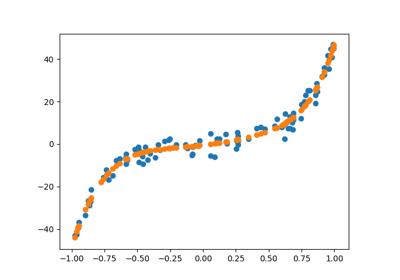
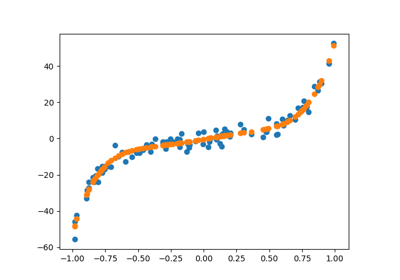
Pushing the docs for revision for branch: master, commit c9a347a8f00e73eee08663c75bfe9ff4e1fb9e16

diff --git a/searchindex.js b/searchindex.js
@@ -1,1 +1,1 @@
-Search.setIndex({docnames:["api","auto_examples/index","auto_examples/plot_fifth_example_Demultiplexer_Multiplexer","auto_examples/plot_first_example_two_nodes_in_linear_sequence","auto_examples/plot_fourth_example_combination_of_classifiers","auto_examples/plot_second_example_added_gridsearchcv","auto_examples/plot_third_example_varying_sample_weights","index","pipegraph"],envversion:53,filenames:["api.rst","auto_examples/index.rst","auto_examples/plot_fifth_example_Demultiplexer_Multiplexer.rst","auto_examples/plot_first_example_two_nodes_in_linear_sequence.rst","auto_examples/plot_fourth_example_combination_of_classifiers.rst","auto_examples/plot_second_example_added_gridsearchcv.rst","auto_examples/plot_third_example_varying_sample_weights.rst","index.rst","pipegraph.rst"],objects:{"":{pipegraph:[8,0,0,"-"]},"pipegraph.PipeGraphClassifier":{decision_function:[8,2,1,""],fit:[8,2,1,""],fit_predict:[8,2,1,""],get_params:[8,2,1,""],predict:[8,2,1,""],predict_log_proba:[8,2,1,""],predict_proba:[8,2,1,""],score:[8,2,1,""],set_params:[8,2,1,""]},"pipegraph.PipeGraphRegressor":{decision_function:[8,2,1,""],fit:[8,2,1,""],fit_predict:[8,2,1,""],get_params:[8,2,1,""],predict:[8,2,1,""],predict_log_proba:[8,2,1,""],predict_proba:[8,2,1,""],score:[8,2,1,""],set_params:[8,2,1,""]},pipegraph:{PipeGraphClassifier:[8,1,1,""],PipeGraphRegressor:[8,1,1,""]}},objnames:{"0":["py","module","Python module"],"1":["py","class","Python class"],"2":["py","method","Python method"]},objtypes:{"0":"py:module","1":"py:class","2":"py:method"},terms:{"boolean":8,"case":[3,5,6,8],"class":[2,4,5,6,8],"default":[4,8],"final":[7,8],"function":7,"import":[2,3,4,5,6],"return":8,"true":[3,4,5,6,8],"while":[3,6,7,8],For:3,The:[3,4,6,8],Then:[3,6],Use:[2,3],about:5,accept:3,access:7,accordingli:[2,6],across:5,action:8,addition:4,advantag:4,after:8,aim:8,all:[1,6,7,8],allow:[6,7],along:7,alternative_connect:8,amongst:3,ani:8,annot:4,api:7,appear:6,append:4,appli:[3,8],argument:8,arrai:[2,6,8],artifici:[3,5],assocci:[3,8],attribut:8,augment:6,auto_examples_jupyt:1,auto_examples_python:1,axi:2,base:8,basic:3,becaus:[4,6],best:[3,5,6,7],best_estimator_:[4,5,6],bind:7,call:7,can:[3,6,7,8],capabl:7,cbar:4,chain:8,charg:2,circumv:6,classif:4,classifi:[1,2],cluster:2,code:[1,2,3,4,5,6],coef:5,coef_:5,coeffici:5,column:6,columnselector:6,combin:[1,2,7],compat:8,complet:7,complex:[3,4,6,7],complic:5,concat:[2,4],concaten:[4,6],concept:7,configur:3,confus:4,confusion_matrix:4,connect:[2,3,4,5,6,8],consid:[3,8],constrain:6,contain:6,could:3,creat:[3,5,6],cross:6,current:[3,6,8],custom:[2,4,6],custom_pow:6,custom_power__pow:6,custompow:6,data:[2,3,4,5,6,7,8],datafram:6,dataset:4,decision_funct:8,deep:8,defin:[3,5,6,8],degre:5,demonstr:1,demultiplex:2,demultiplexor:1,demux:2,describ:[3,5],descript:6,desir:[3,8],detail:5,diagram:[2,3,4,5,6],dict:[6,8],dictionari:[3,5,6,8],differ:[2,6],displai:[4,6],divid:6,document:[7,8],download:[1,2,3,4,5,6],each:[2,8],eas:7,effect:5,elabor:[3,6,7],enabl:8,entri:[3,8],equival:[5,8],estim:[4,5,6,7,8],evalu:6,exampl:7,expect:6,experi:6,explor:[5,6],express:[3,7,8],extend:7,extens:8,extern:[3,8],fals:[4,5,6],faster:3,featur:[4,6],fed:3,few:[5,6,7],fifth:1,figur:[2,3,4,5,6],first:[1,5,6,8],firstli:[3,4,5],fit:[2,3,4,5,6,7,8],fit_param:[6,8],fit_predict:[3,8],fmt:4,follow:[3,5,6,8],format:[5,6],fourth:1,from:[2,3,4,5,6,7,8],fulfil:8,galleri:[1,2,3,4,5,6],gaussian_mixtur:2,gaussian_nb:4,gaussianmixtur:2,gaussiannb:4,gener:[2,3,4,5,6,7],get:8,get_param:[4,5,6,8],going:[3,8],graph:[6,7,8],grid:3,grid_search_classifi:4,grid_search_regressor:[5,6],gridsearchcv:[1,2,4,7,8],handbook:4,handl:7,has:8,have:[6,7],heatmap:4,heavili:8,hold:[3,8],how:[5,7],hyperparamet:[5,7],illustr:[3,6],imagin:[2,6,7],implement:[6,8],increas:[3,6],index:[3,7],indic:6,inform:[3,5,6,8],inject:[1,4],input:[2,3,4,6,8],instanc:3,instanti:3,instead:6,intercept:5,interfac:8,intermedi:7,introductori:1,invok:[3,8],ipynb:[2,3,4,5,6],iri:4,iter:8,its:[4,8],itself:7,jake:4,jupyt:[1,2,3,4,5,6],just:5,kei:[3,8],keyword:8,kwarg:8,label:[2,3,4,8],last:8,layout:[2,7],learn:[4,7,8],legend:3,let:[3,6,7],level:[3,8],librari:[3,5],like:8,limit:6,linear:[1,5,7],linear_model:[2,3,4,5,6],linear_model__fit_intercept:[5,6],linearregress:[2,3,4,5,6],list:[3,8],lm_0:2,lm_1:2,lm_2:2,load_iri:4,loc:[3,6],make:6,manag:[4,7],manner:5,map:[6,8],mat:4,matplotlib:[2,3,4,5,6],matrix:4,method:[3,4,7,8],metric:4,minmaxscal:[2,3,4,5,6],minut:[2,3,4,5,6],mixtur:2,mlp:4,mlp__hidden_layer_s:4,mlp__max_it:4,mlpclassifi:4,model:[1,2,3,5,7,8],model_select:[2,4,5,6],modul:[7,8],more:[3,5,6],multiplex:2,multiplexor:1,must:[3,8],mux:2,n_class:8,n_compon:2,n_sampl:8,naive_bay:4,name:[3,8],necessari:[3,5],need:[2,3,6],nest:[3,8],network:4,neural:4,neural_network:4,next:[5,6],non:[5,6],none:[2,8],notebook:[1,2,3,4,5,6],now:5,number:[5,6],numpi:[2,3,4,5,6],object:[3,4,5,6,7,8],obtain:6,onc:3,one:[2,8],onli:8,oper:[5,6],option:8,order:[3,6,8],origin:[3,6],other:[3,8],otherwis:8,out:[5,6],output:[3,4,8],page:7,panda:[2,4,6],param:8,param_grid:[4,5,6],paramet:[5,6,8],particular:6,pass:[3,8],perfectli:3,perform:[5,6],pgraph:[2,3,4,5,6],pipegraph:[0,2,3,4,5,6],pipegraphclasifi:8,pipegraphclassifi:[4,8],pipegraphregressor:[3,5,6,8],pipegrpaph:8,pipelin:[3,5,6,7,8],pleas:[3,6],plot:[3,4],plot_fifth_example_demultiplexer_multiplex:2,plot_first_example_two_nodes_in_linear_sequ:3,plot_fourth_example_combination_of_classifi:4,plot_second_example_added_gridsearchcv:5,plot_third_example_varying_sample_weight:6,plt:[2,3,4,5,6],polynomi:5,polynomial_featur:[5,6],polynomial_features__degre:[5,6],polynomialfeatur:[4,5,6],posit:[3,8],possibl:[5,6,8],power:6,predict:[2,3,4,5,6,7,8],predict_log_proba:8,predict_proba:8,prefix:8,preprocess:[2,3,4,5,6],preprocessor:[2,4],previous:[3,6,8],print:[5,6],proce:5,provid:[3,5,6,8],purpos:8,pyplot:[2,3,4,5,6],python:[1,2,3,4,5,6],rand:[2,3,5],randn:[2,3,5],random:[2,3,5],rang:[5,6],refer:[3,6],refit:[4,5,6],regress:[1,3],regressor:8,repres:[3,8],requir:8,reshap:6,result:[3,4,6],retrict:6,run:[2,3,4,5,6],s__p:8,same:[3,6,8],sample_weight:[1,8],scale:4,scaler:[2,3,4,5,6],scatter:[2,3,5,6],scenario:[5,6],scienc:4,scikit:[4,7,8],score:[4,8],script:[2,3,4,5,6],seaborn:4,search:7,second:[1,2,3,4,6],secondli:[3,5],see:7,select:2,selector:6,self:8,separ:2,sequenc:[6,7],seri:2,set:[4,8],set_param:8,shape:[6,8],show:[2,3,4,5,6],shown:5,similar:[5,8],simpl:[1,5,6,7],singl:[2,7],situat:7,sklearn:[2,3,4,5,6],slice:6,sns:4,some:[3,5],sourc:[1,2,3,4,5,6,8],specifi:[5,6],sphinx:[1,2,3,4,5,6],split:[2,6],squar:4,standard:[3,6],start:3,step:[2,3,4,5,6,7,8],string:[3,8],structur:7,style:4,successfulli:[4,6],svc:4,svc__c:4,svm:4,syntax:6,take:4,taken:4,target:[4,8],than:6,thei:[3,8],them:6,themselv:[3,8],thi:[3,4,5,6,7,8],third:1,those:[3,6,7,8],through:7,time:[2,3,4,5,6],titl:3,to_fram:2,tool:7,top:[3,8],topolog:8,total:[2,3,4,5,6],train:8,transform:[3,4,5,6,7],treat:6,tune:7,tupl:[3,8],two:6,typic:6,understand:[3,7],unit:7,use:[4,5,6,7],used:[6,8],useful:7,user:[3,7,8],using:[2,3,5,6,7,8],valid:[6,8],valu:[3,8],vanderpla:4,vari:[1,5],variabl:[3,6,8],vector:[1,2],veri:7,wai:6,want:[4,5],well:4,were:3,when:[2,3],where:[3,8],whether:5,which:[6,8],whose:8,wise:6,work:7,workflow:[1,5,6,7],written:[3,8],x_0:2,x_1:2,x_2:2,x_first:2,x_second:2,x_third:2,xlabel:[3,4],y_0:2,y_1:2,y_2:2,y_first:2,y_pred:[2,3,4,5,6,8],y_proba:8,y_score:8,y_second:2,y_third:2,yet:5,ylabel:[3,4],zip:1},titles:["API Documentation","General examples","Fifth Example: Demultiplexor - multiplexor","First example: A simple linear workflow","Fourth Example: Combination of classifiers","Second example: <code class=\"docutils literal notranslate\"><span class=\"pre\">GridSearchCV</span></code> demonstration","Third Example: Injecting varying <code class=\"docutils literal notranslate\"><span class=\"pre\">sample_weight</span></code> vectors to a linear regression model for GridSearchCV","Welcome to PipeGraph!","PipeGraph"],titleterms:{api:0,classifi:4,combin:4,demonstr:5,demultiplexor:2,document:0,exampl:[1,2,3,4,5,6],fifth:2,first:3,fourth:4,gener:1,gridsearchcv:[5,6],indic:7,inject:6,introduct:7,linear:[3,6],model:6,multiplexor:2,pipegraph:[7,8],regress:6,sample_weight:6,second:5,simpl:3,tabl:7,third:6,vari:6,vector:6,welcom:7,workflow:3}})
+Search.setIndex({docnames:["api","auto_examples/index","auto_examples/plot_fifth_example_Demultiplexer_Multiplexer","auto_examples/plot_first_example_two_nodes_in_linear_sequence","auto_examples/plot_fourth_example_combination_of_classifiers","auto_examples/plot_second_example_added_gridsearchcv","auto_examples/plot_third_example_varying_sample_weights","index","pipegraph"],envversion:53,filenames:["api.rst","auto_examples/index.rst","auto_examples/plot_fifth_example_Demultiplexer_Multiplexer.rst","auto_examples/plot_first_example_two_nodes_in_linear_sequence.rst","auto_examples/plot_fourth_example_combination_of_classifiers.rst","auto_examples/plot_second_example_added_gridsearchcv.rst","auto_examples/plot_third_example_varying_sample_weights.rst","index.rst","pipegraph.rst"],objects:{"":{pipegraph:[8,0,0,"-"]},"pipegraph.PipeGraphClassifier":{decision_function:[8,2,1,""],fit:[8,2,1,""],fit_predict:[8,2,1,""],get_params:[8,2,1,""],predict:[8,2,1,""],predict_log_proba:[8,2,1,""],predict_proba:[8,2,1,""],score:[8,2,1,""],set_params:[8,2,1,""]},"pipegraph.PipeGraphRegressor":{decision_function:[8,2,1,""],fit:[8,2,1,""],fit_predict:[8,2,1,""],get_params:[8,2,1,""],predict:[8,2,1,""],predict_log_proba:[8,2,1,""],predict_proba:[8,2,1,""],score:[8,2,1,""],set_params:[8,2,1,""]},pipegraph:{PipeGraphClassifier:[8,1,1,""],PipeGraphRegressor:[8,1,1,""]}},objnames:{"0":["py","module","Python module"],"1":["py","class","Python class"],"2":["py","method","Python method"]},objtypes:{"0":"py:module","1":"py:class","2":"py:method"},terms:{"boolean":8,"case":[3,5,6,8],"class":[2,4,6,8],"default":[4,8],"final":[7,8],"function":7,"import":[2,3,4,5,6],"return":8,"true":[3,4,5,6,8],"while":[3,6,7,8],For:3,The:[3,4,6,8],Then:[3,6],Use:[2,3],about:5,accept:3,access:7,accordingli:[2,6],across:5,action:8,addition:4,advantag:4,after:8,aim:8,all:[1,6,7,8],allow:[6,7],along:7,alternative_connect:8,amongst:3,ani:8,annot:4,api:7,appear:6,append:4,appli:[3,8],argument:8,arrai:[2,6,8],artifici:[3,5],assocci:[3,8],attribut:8,augment:6,auto_examples_jupyt:1,auto_examples_python:1,axi:2,base:8,basic:3,becaus:[4,6],best:[3,5,6,7],best_estimator_:[4,5,6],bind:7,call:7,can:[3,6,7,8],capabl:7,cbar:4,chain:8,charg:2,circumv:6,classif:4,classifi:[1,2],cluster:2,code:[1,2,3,4,5,6],coef:5,coef_:5,coeffici:5,column:6,columnselector:6,combin:[1,2,7],compat:8,complet:7,complex:[3,4,6,7],complic:5,concat:[2,4],concaten:[4,6],concept:7,configur:3,confus:4,confusion_matrix:4,connect:[2,3,4,5,6,8],consid:[3,8],constrain:6,contain:6,could:3,creat:[3,5,6],cross:6,current:[3,6,8],custom:[2,4,6],custom_pow:6,custom_power__pow:6,custompow:6,data:[2,3,4,5,6,7,8],datafram:6,dataset:4,decision_funct:8,deep:8,defin:[3,5,6,8],degre:5,demonstr:1,demultiplex:2,demultiplexor:1,demux:2,describ:[3,5],descript:6,desir:[3,8],detail:5,diagram:[2,3,4,5,6],dict:[6,8],dictionari:[3,5,6,8],differ:[2,6],displai:[4,6],divid:6,document:[7,8],download:[1,2,3,4,5,6],each:[2,8],eas:7,effect:5,elabor:[3,6,7],enabl:8,entri:[3,8],equival:[5,8],estim:[4,5,6,7,8],evalu:6,exampl:7,expect:6,experi:6,explor:[5,6],express:[3,7,8],extend:7,extens:8,extern:[3,8],fals:[4,5,6],faster:3,featur:[4,6],fed:3,few:[5,6,7],fifth:1,figur:[2,3,4,5,6],first:[1,5,6,8],firstli:[3,4,5],fit:[2,3,4,5,6,7,8],fit_param:[6,8],fit_predict:[3,8],fmt:4,follow:[3,5,6,8],format:[5,6],fourth:1,from:[2,3,4,5,6,7,8],fulfil:8,galleri:[1,2,3,4,5,6],gaussian_mixtur:2,gaussian_nb:4,gaussianmixtur:2,gaussiannb:4,gener:[2,3,4,5,6,7],get:8,get_param:[4,5,6,8],going:[3,8],graph:[6,7,8],grid:3,grid_search_classifi:4,grid_search_regressor:[5,6],gridsearchcv:[1,2,4,7,8],handbook:4,handl:7,has:8,have:[6,7],heatmap:4,heavili:8,hold:[3,8],how:[5,7],hyperparamet:[5,7],illustr:[3,6],imagin:[2,6,7],implement:[6,8],increas:[3,6],index:[3,7],indic:6,inform:[3,5,6,8],inject:[1,4],input:[2,3,4,6,8],instanc:3,instanti:3,instead:6,intercept:5,interfac:8,intermedi:7,introductori:1,invok:[3,8],ipynb:[2,3,4,5,6],iri:4,iter:8,its:[4,8],itself:7,jake:4,jupyt:[1,2,3,4,5,6],just:5,kei:[3,8],keyword:8,kwarg:8,label:[2,3,4,8],last:8,layout:[2,7],learn:[4,7,8],legend:3,let:[3,6,7],level:[3,8],librari:[3,5],like:8,limit:6,linear:[1,5,7],linear_model:[2,3,4,5,6],linear_model__fit_intercept:[5,6],linearregress:[2,3,4,5,6],list:[3,8],lm_0:2,lm_1:2,lm_2:2,load_iri:4,loc:[3,6],make:6,manag:[4,7],manner:5,map:[6,8],mat:4,matplotlib:[2,3,4,5,6],matrix:4,method:[3,4,7,8],metric:4,minmaxscal:[2,3,4,5,6],minut:[2,3,4,5,6],mixtur:2,mlp:4,mlp__hidden_layer_s:4,mlp__max_it:4,mlpclassifi:4,model:[1,2,3,5,7,8],model_select:[2,4,5,6],modul:[7,8],more:[3,5,6],multiplex:2,multiplexor:1,must:[3,8],mux:2,n_class:8,n_compon:2,n_sampl:8,naive_bay:4,name:[3,8],necessari:[3,5],need:[2,3,6],nest:[3,8],network:4,neural:4,neural_network:4,next:[5,6],non:[5,6],none:[2,8],notebook:[1,2,3,4,5,6],now:5,number:[5,6],numpi:[2,3,4,5,6],object:[3,4,5,6,7,8],obtain:6,onc:3,one:[2,8],onli:8,oper:[5,6],option:8,order:[3,6,8],origin:[3,6],other:[3,8],otherwis:8,out:[5,6],output:[3,4,8],page:7,panda:[2,4,6],param:8,param_grid:[4,5,6],paramet:[5,6,8],particular:6,pass:[3,8],perfectli:3,perform:[5,6],pgraph:[2,3,4,5,6],pipegraph:[0,2,3,4,5,6],pipegraphclasifi:8,pipegraphclassifi:[4,8],pipegraphregressor:[3,5,6,8],pipegrpaph:8,pipelin:[3,5,6,7,8],pleas:[3,6],plot:[3,4],plot_fifth_example_demultiplexer_multiplex:2,plot_first_example_two_nodes_in_linear_sequ:3,plot_fourth_example_combination_of_classifi:4,plot_second_example_added_gridsearchcv:5,plot_third_example_varying_sample_weight:6,plt:[2,3,4,5,6],polynomi:5,polynomial_featur:[5,6],polynomial_features__degre:[5,6],polynomialfeatur:[4,5,6],posit:[3,8],possibl:[5,6,8],power:6,predict:[2,3,4,5,6,7,8],predict_log_proba:8,predict_proba:8,prefix:8,preprocess:[2,3,4,5,6],preprocessor:[2,4],previous:[3,6,8],print:[5,6],proce:5,provid:[3,5,6,8],purpos:8,pyplot:[2,3,4,5,6],python:[1,2,3,4,5,6],rand:[2,3,5],randn:[2,3,5],random:[2,3,5],rang:[5,6],refer:[3,6],refit:[4,5,6],regress:[1,3],regressor:8,repres:[3,8],requir:8,reshap:6,result:[3,4,6],retrict:6,run:[2,3,4,5,6],s__p:8,same:[3,6,8],sample_weight:[1,8],scale:4,scaler:[2,3,4,5,6],scatter:[2,3,5,6],scenario:[5,6],scienc:4,scikit:[4,7,8],score:[4,8],script:[2,3,4,5,6],seaborn:4,search:7,second:[1,2,3,4,6],secondli:[3,5],see:7,select:2,selector:6,self:8,separ:2,sequenc:[6,7],seri:2,set:[4,8],set_param:8,shape:[6,8],show:[2,3,4,5,6],shown:5,similar:[5,8],simpl:[1,5,6,7],singl:[2,7],situat:7,sklearn:[2,3,4,5,6],slice:6,sns:4,some:[3,5],sourc:[1,2,3,4,5,6,8],specifi:[5,6],sphinx:[1,2,3,4,5,6],split:[2,6],squar:4,standard:[3,6],start:3,step:[2,3,4,5,6,7,8],string:[3,8],structur:7,style:4,successfulli:[4,6],svc:4,svc__c:4,svm:4,syntax:6,take:4,taken:4,target:[4,8],than:6,thei:[3,8],them:6,themselv:[3,8],thi:[3,4,5,6,7,8],third:1,those:[3,6,7,8],through:7,time:[2,3,4,5,6],titl:3,to_fram:2,tool:7,top:[3,8],topolog:8,total:[2,3,4,5,6],train:8,transform:[3,4,5,6,7],treat:6,tune:7,tupl:[3,8],two:6,typic:6,understand:[3,7],unit:7,use:[4,5,6,7],used:[6,8],useful:7,user:[3,7,8],using:[2,3,5,6,7,8],valid:[6,8],valu:[3,8],vanderpla:4,vari:[1,5],variabl:[3,6,8],vector:[1,2],veri:7,wai:6,want:[4,5],well:4,were:3,when:[2,3],where:[3,8],whether:5,which:[6,8],whose:8,wise:6,work:7,workflow:[1,5,6,7],written:[3,8],x_0:2,x_1:2,x_2:2,x_first:2,x_second:2,x_third:2,xlabel:[3,4],y_0:2,y_1:2,y_2:2,y_first:2,y_pred:[2,3,4,5,6,8],y_proba:8,y_score:8,y_second:2,y_third:2,yet:5,ylabel:[3,4],zip:1},titles:["API Documentation","General examples","Fifth Example: Demultiplexor - multiplexor","First example: A simple linear workflow","Fourth Example: Combination of classifiers","Second example: <code class=\"docutils literal notranslate\"><span class=\"pre\">GridSearchCV</span></code> demonstration","Third Example: Injecting varying <code class=\"docutils literal notranslate\"><span class=\"pre\">sample_weight</span></code> vectors to a linear regression model for GridSearchCV","Welcome to PipeGraph!","PipeGraph"],titleterms:{api:0,classifi:4,combin:4,demonstr:5,demultiplexor:2,document:0,exampl:[1,2,3,4,5,6],fifth:2,first:3,fourth:4,gener:1,gridsearchcv:[5,6],indic:7,inject:6,introduct:7,linear:[3,6],model:6,multiplexor:2,pipegraph:[7,8],regress:6,sample_weight:6,second:5,simpl:3,tabl:7,third:6,vari:6,vector:6,welcom:7,workflow:3}})

diff --git a/auto_examples/plot_second_example_added_gridsearchcv.html b/auto_examples/plot_second_example_added_gridsearchcv.html
@@ -171,7 +171,7 @@
   <div class="section" id="second-example-gridsearchcv-demonstration">
 <span id="example2"></span><span id="sphx-glr-auto-examples-plot-second-example-added-gridsearchcv-py"></span><h1>Second example: <code class="xref py py-class docutils literal notranslate"><span class="pre">GridSearchCV</span></code> demonstration<a class="headerlink" href="#second-example-gridsearchcv-demonstration" title="Permalink to this headline">¶</a></h1>
 <p>This example shows how to use <code class="xref py py-class docutils literal notranslate"><span class="pre">GridSearchCv</span></code> with PipeGraph to effectively fit the best model across a number of hyperparameters.
-It is equivalent to use <code class="xref py py-class docutils literal notranslate"><span class="pre">GridSearchCv</span> <span class="pre">with</span> <span class="pre">:class:`Pipeline</span></code>. More complicated cases are shown in the following examples. In this second example we wanted to show how to fit a <code class="xref py py-class docutils literal notranslate"><span class="pre">GridSearchCV</span></code> in a yet simple scenario.</p>
+It is equivalent to use <code class="xref py py-class docutils literal notranslate"><span class="pre">GridSearchCv</span></code> with <code class="xref py py-class docutils literal notranslate"><span class="pre">Pipeline</span></code>. More complicated cases are shown in the following examples. In this second example we wanted to show how to fit a <code class="xref py py-class docutils literal notranslate"><span class="pre">GridSearchCV</span></code> in a yet simple scenario.</p>
 <p>Steps of the PipeGraph:</p>
 <ul class="simple">
 <li><strong>scaler</strong>: a preprocessing step using a <code class="xref py py-class docutils literal notranslate"><span class="pre">MinMaxScaler</span></code> object</li>
@@ -235,14 +235,14 @@ In this case we just want to explore a few possibilities varying the degree of t
 <img alt="../_images/sphx_glr_plot_second_example_added_gridsearchcv_001.png" class="align-center" src="../_images/sphx_glr_plot_second_example_added_gridsearchcv_001.png" />
 <p class="sphx-glr-script-out">Out:</p>
 <div class="sphx-glr-script-out highlight-default notranslate"><div class="highlight"><pre><span></span><span class="n">Information</span> <span class="n">about</span> <span class="n">the</span> <span class="n">parameters</span> <span class="n">of</span> <span class="n">the</span> <span class="n">best</span> <span class="n">estimator</span><span class="p">:</span>
- <span class="n">degree</span><span class="p">:</span> <span class="mi">6</span>
- <span class="n">coefficients</span><span class="p">:</span> <span class="p">[[</span>    <span class="mf">0.</span>           <span class="mf">360.65244327</span> <span class="o">-</span><span class="mf">1184.01862582</span>  <span class="mf">1693.7409587</span>
-   <span class="o">-</span><span class="mf">568.94789867</span>  <span class="o">-</span><span class="mf">863.21615334</span>   <span class="mf">652.44212435</span><span class="p">]]</span>
+ <span class="n">degree</span><span class="p">:</span> <span class="mi">5</span>
+ <span class="n">coefficients</span><span class="p">:</span> <span class="p">[[</span>    <span class="mf">0.</span>           <span class="mf">465.22258077</span> <span class="o">-</span><span class="mf">2009.72132901</span>  <span class="mf">4344.51115488</span>
+  <span class="o">-</span><span class="mf">4507.71108526</span>  <span class="mf">1807.27392375</span><span class="p">]]</span>
 </pre></div>
 </div>
 <p>This example showed how to use <code class="xref py py-class docutils literal notranslate"><span class="pre">GridSearchCV</span></code> with <code class="xref py py-class docutils literal notranslate"><span class="pre">PipeGraphRegressor</span></code> in a simple linear workflow.
 <a class="reference internal" href="plot_third_example_varying_sample_weights.html#example3"><span class="std std-ref">Next example</span></a> provides detail on how to proceed with a non linear case.</p>
-<p><strong>Total running time of the script:</strong> ( 0 minutes  0.501 seconds)</p>
+<p><strong>Total running time of the script:</strong> ( 0 minutes  0.507 seconds)</p>
 <div class="sphx-glr-footer docutils container">
 <div class="sphx-glr-download docutils container">
 <a class="reference download internal" href="../_downloads/plot_second_example_added_gridsearchcv.py" download=""><code class="xref download docutils literal notranslate"><span class="pre">Download</span> <span class="pre">Python</span> <span class="pre">source</span> <span class="pre">code:</span> <span class="pre">plot_second_example_added_gridsearchcv.py</span></code></a></div>

diff --git a/auto_examples/plot_third_example_varying_sample_weights.html b/auto_examples/plot_third_example_varying_sample_weights.html
@@ -254,7 +254,7 @@ Please, refer to the <a class="reference internal" href="plot_first_example_two_
 </div>
 <p>This example displayed a non linear workflow successfully implemented by PipeGraph, while at the same time showing a way to circumvent current limitations of standard <code class="xref py py-class docutils literal notranslate"><span class="pre">GridSearchCV</span></code>, in particular, the retriction on the number of input parameters.
 <a class="reference internal" href="plot_fourth_example_combination_of_classifiers.html#example4"><span class="std std-ref">Next examples</span></a> show more elaborated examples in increasing complexity order.</p>
-<p><strong>Total running time of the script:</strong> ( 0 minutes  0.837 seconds)</p>
+<p><strong>Total running time of the script:</strong> ( 0 minutes  0.880 seconds)</p>
 <div class="sphx-glr-footer docutils container">
 <div class="sphx-glr-download docutils container">
 <a class="reference download internal" href="../_downloads/plot_third_example_varying_sample_weights.py" download=""><code class="xref download docutils literal notranslate"><span class="pre">Download</span> <span class="pre">Python</span> <span class="pre">source</span> <span class="pre">code:</span> <span class="pre">plot_third_example_varying_sample_weights.py</span></code></a></div>

diff --git a/auto_examples/plot_first_example_two_nodes_in_linear_sequence.html b/auto_examples/plot_first_example_two_nodes_in_linear_sequence.html
@@ -241,7 +241,7 @@
 </div>
 <img alt="../_images/sphx_glr_plot_first_example_two_nodes_in_linear_sequence_001.png" class="align-center" src="../_images/sphx_glr_plot_first_example_two_nodes_in_linear_sequence_001.png" />
 <p>This example described the basic configuration of a <code class="xref py py-class docutils literal notranslate"><span class="pre">PipeGraphRegressor</span></code>. The <a class="reference internal" href="plot_second_example_added_gridsearchcv.html#example2"><span class="std std-ref">following examples</span></a> show more elaborated cases in order of increasing complexity.</p>
-<p><strong>Total running time of the script:</strong> ( 0 minutes  0.963 seconds)</p>
+<p><strong>Total running time of the script:</strong> ( 0 minutes  0.686 seconds)</p>
 <div class="sphx-glr-footer docutils container">
 <div class="sphx-glr-download docutils container">
 <a class="reference download internal" href="../_downloads/plot_first_example_two_nodes_in_linear_sequence.py" download=""><code class="xref download docutils literal notranslate"><span class="pre">Download</span> <span class="pre">Python</span> <span class="pre">source</span> <span class="pre">code:</span> <span class="pre">plot_first_example_two_nodes_in_linear_sequence.py</span></code></a></div>

diff --git a/auto_examples/plot_fourth_example_combination_of_classifiers.html b/auto_examples/plot_fourth_example_combination_of_classifiers.html
@@ -254,7 +254,7 @@ the neural network. The data is firstly transformed by scaling its features.</p>
 </div>
 <img alt="../_images/sphx_glr_plot_fourth_example_combination_of_classifiers_001.png" class="align-center" src="../_images/sphx_glr_plot_fourth_example_combination_of_classifiers_001.png" />
 <p>This example displayed complex data injections that are successfully managed by PipeGraph.</p>
-<p><strong>Total running time of the script:</strong> ( 0 minutes  51.343 seconds)</p>
+<p><strong>Total running time of the script:</strong> ( 0 minutes  47.918 seconds)</p>
 <div class="sphx-glr-footer docutils container">
 <div class="sphx-glr-download docutils container">
 <a class="reference download internal" href="../_downloads/plot_fourth_example_combination_of_classifiers.py" download=""><code class="xref download docutils literal notranslate"><span class="pre">Download</span> <span class="pre">Python</span> <span class="pre">source</span> <span class="pre">code:</span> <span class="pre">plot_fourth_example_combination_of_classifiers.py</span></code></a></div>

diff --git a/auto_examples/plot_fifth_example_Demultiplexer_Multiplexer.html b/auto_examples/plot_fifth_example_Demultiplexer_Multiplexer.html
@@ -254,7 +254,7 @@
 </pre></div>
 </div>
 <img alt="../_images/sphx_glr_plot_fifth_example_Demultiplexer_Multiplexer_001.png" class="align-center" src="../_images/sphx_glr_plot_fifth_example_Demultiplexer_Multiplexer_001.png" />
-<p><strong>Total running time of the script:</strong> ( 0 minutes  0.107 seconds)</p>
+<p><strong>Total running time of the script:</strong> ( 0 minutes  0.161 seconds)</p>
 <div class="sphx-glr-footer docutils container">
 <div class="sphx-glr-download docutils container">
 <a class="reference download internal" href="../_downloads/plot_fifth_example_Demultiplexer_Multiplexer.py" download=""><code class="xref download docutils literal notranslate"><span class="pre">Download</span> <span class="pre">Python</span> <span class="pre">source</span> <span class="pre">code:</span> <span class="pre">plot_fifth_example_Demultiplexer_Multiplexer.py</span></code></a></div>

diff --git a/_downloads/plot_second_example_added_gridsearchcv.py b/_downloads/plot_second_example_added_gridsearchcv.py
@@ -5,7 +5,7 @@ Second example: :class:`GridSearchCV` demonstration
 ----------------------------------------------------
 
 This example shows how to use :class:`GridSearchCv` with PipeGraph to effectively fit the best model across a number of hyperparameters.
-It is equivalent to use :class:`GridSearchCv with :class:`Pipeline`. More complicated cases are shown in the following examples. In this second example we wanted to show how to fit a :class:`GridSearchCV` in a yet simple scenario.
+It is equivalent to use :class:`GridSearchCv` with :class:`Pipeline`. More complicated cases are shown in the following examples. In this second example we wanted to show how to fit a :class:`GridSearchCV` in a yet simple scenario.
 
 Steps of the PipeGraph:
 
